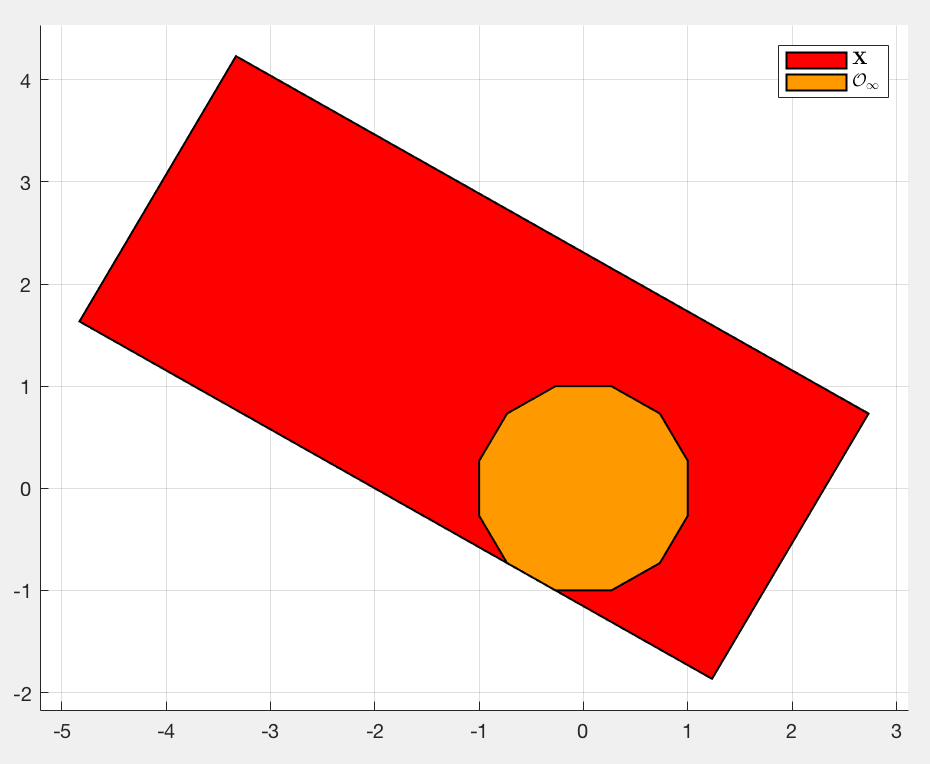
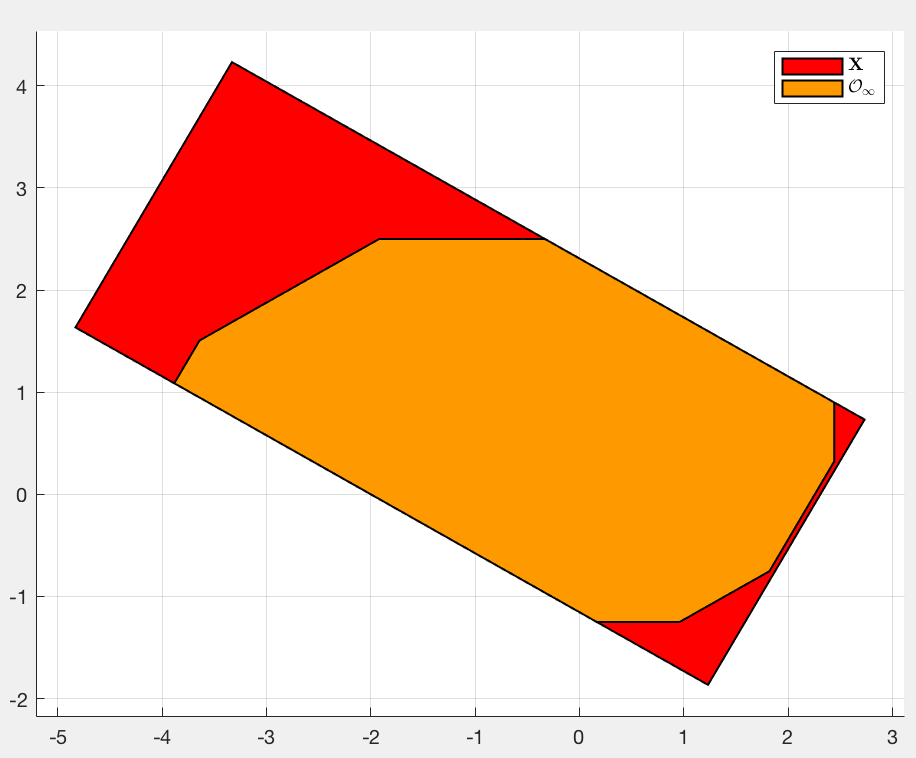
Corrects tiny mistake (forgotten beta coeff)

diff --git a/E3/ex1.m b/E3/ex1.m
@@ -10,7 +10,7 @@
  A = [  
         cos(alpha) , sin(alpha) ; 
         -sin(alpha), cos(alpha)
-     ];
+     ]*beta;
  H = [ 
         cos(pi/3)  , sin(pi/3)  ;
         -cos(pi/3) , -sin(pi/3) ;
@@ -41,16 +41,16 @@
  
  %% Task 2 : trajectory plots
  
- x_out = [-2;0.5];
- x_in = {[0;0],[0;0.2],[0.4;0],[0; 0.6], [0.8; 0], [0; 1]};
+ x_out = [-3;2.2];
+ x_in = {[-3;1.5],[-2;1],[-1;1.5],[0; 1.2], [1.4; 0], [2; 1], [-1; 0]};
  
  traj_out = simulate_traj(A, x_out, 20, X);
- plot(traj_out(1,:),traj_out(2,:),'o-','MarkerSize',8,'MarkerEdgeColor',[0.1,0.1,0.1],'MarkerFaceColor',[0.1,0.1,0.1]);
+ plot(traj_out(1,:),traj_out(2,:),'bo-','MarkerSize',8,'MarkerEdgeColor',[0.1,0.1,0.1],'MarkerFaceColor',[0.1,0.1,0.1]);
  plot(x_out(1),x_out(2),'s','MarkerSize',10,'MarkerEdgeColor',[0.1,0.1,0.1],'MarkerFaceColor',[0.99,0.99,0.99]);
 
  for x=cell2mat(x_in)
     traj_in = simulate_traj(A, x, 20, X);
-    plot(traj_in(1,:),traj_in(2,:),'o-','MarkerSize',5,'MarkerEdgeColor',[0.1,0.1,0.1],'MarkerFaceColor',[0.1,0.1,0.1]);
+    plot(traj_in(1,:),traj_in(2,:),'bo-','MarkerSize',5,'MarkerEdgeColor',[0.1,0.1,0.1],'MarkerFaceColor',[0.1,0.1,0.1]);
     plot(x(1),x(2),'s','MarkerSize',6,'MarkerEdgeColor',[0.1,0.1,0.1],'MarkerFaceColor',[0.99,0.99,0.99]);
  end
   
